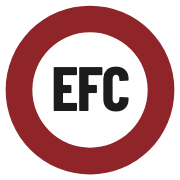
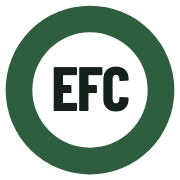
Essential Fence Center: evergreen palette in place of the red
Claude-Session: https://claude.ai/code/session_0129ekqVKv9bGKAaKhdq88AA

diff --git a/sites/essential-fence-center/index.html b/sites/essential-fence-center/index.html
@@ -12,7 +12,7 @@ if(!/\/$|\.[a-z0-9]+$/i.test(location.pathname))location.replace(location.pathna
 <link href="https://fonts.googleapis.com/css2?family=Barlow:wght@400;500;600&family=Barlow+Condensed:wght@600;700&display=swap" rel="stylesheet">
 <link rel="icon" href="assets/identity/icon.svg" type="image/svg+xml">
 <link rel="apple-touch-icon" href="assets/identity/icon-180.png">
-<meta name="theme-color" content="#1C1C1E">
+<meta name="theme-color" content="#16211B">
 <meta property="og:type" content="website">
 <meta property="og:site_name" content="Essential Fence Center">
 <meta property="og:title" content="Essential Fence Center · Fencing done right.">
@@ -25,13 +25,13 @@ if(!/\/$|\.[a-z0-9]+$/i.test(location.pathname))location.replace(location.pathna
 <style>
 /* THE FENCE LINE ONE, for Essential Fence Center. hero:backdrop nav:bar
    services:grid-numbered proof:about + the client's own photographs
-   ink #1C1C1E · surface #F5F1E9 · accent #8F2429 (the EFC roundel red) · muted #5C6360
+   ink #16211B · surface #F5F1E9 · accent #2E5E3E (Pacific Northwest evergreen) · muted #5C6360
    Barlow Condensed display / Barlow body
    Device: the board band, a run of vertical cedar boards with two rails, closing the
    hero and signing the footer. The phone is the hero's largest object; the estimate
    form is the second CTA everywhere. Built from the Grand Street Works trade set. */
-:root{--ink:#1C1C1E;--surface:#F5F1E9;--accent:#8F2429;--accent-2:#7A1D22;--muted:#5C6360;--dark:#1C1C1E;
---ondark:#EFEAE0;--dim:#B9BDB6;--flare:#E7787C;--rule:rgba(28,28,30,.16);--hair:rgba(28,28,30,.09);
+:root{--ink:#16211B;--surface:#F5F1E9;--accent:#2E5E3E;--accent-2:#244B31;--muted:#5C6360;--dark:#16211B;
+--ondark:#EFEAE0;--dim:#B9BDB6;--flare:#9CC59A;--rule:rgba(22,33,27,.16);--hair:rgba(22,33,27,.09);
 --board:#3B3F3A;--gap:#22282A;--alt:#ECE7DD;--wrap:1140px}
 *{box-sizing:border-box}
 html{-webkit-text-size-adjust:100%;scroll-behavior:smooth}
@@ -78,8 +78,8 @@ font-weight:700;letter-spacing:.05em;font-family:"Barlow Condensed",Impact,sans-
 .backdrop picture{display:block;width:100%;height:100%}
 .backdrop img{width:100%;height:100%;object-fit:cover;object-position:center 70%}
 .backdrop::after{content:"";position:absolute;inset:0;
-background:linear-gradient(100deg,rgb(28 28 30/.92) 0%,rgb(28 28 30/.84) 40%,rgb(28 28 30/.5) 72%,rgb(28 28 30/.3) 100%)}
-@media(max-width:60rem){.backdrop::after{background:rgb(28 28 30/.84)}}
+background:linear-gradient(100deg,rgb(22 33 27/.92) 0%,rgb(22 33 27/.84) 40%,rgb(22 33 27/.5) 72%,rgb(22 33 27/.3) 100%)}
+@media(max-width:60rem){.backdrop::after{background:rgb(22 33 27/.84)}}
 @media(forced-colors:active),print{.backdrop{display:none}}
 .eyebrow{font-size:13px;letter-spacing:.2em;text-transform:uppercase;font-weight:600;
 color:var(--flare);margin:0 0 12px}
@@ -186,7 +186,7 @@ background:#fff;color:var(--ink);border-radius:0;width:100%}
 /* Close and footer. */
 .close{position:relative;isolation:isolate;overflow:hidden;background:var(--dark);color:#fff;padding:52px 0 56px}
 .close>*:not(.backdrop){position:relative;z-index:1}
-.close .backdrop::after{background:linear-gradient(100deg,rgb(28 28 30/.92) 0%,rgb(28 28 30/.8) 45%,rgb(28 28 30/.45) 100%)}
+.close .backdrop::after{background:linear-gradient(100deg,rgb(22 33 27/.92) 0%,rgb(22 33 27/.8) 45%,rgb(22 33 27/.45) 100%)}
 .close h2{max-width:14ch;color:#fff}
 .close p{max-width:52ch;font-size:17px;margin:12px 0 22px;color:var(--dim)}
 .close .btn-primary{background:#fff;color:var(--accent)}
@@ -231,9 +231,9 @@ letter-spacing:.08em;text-transform:uppercase;max-width:132px}
 <body>
 <div class="topbar"><div class="wrap"><span>Licensed, bonded &amp; insured · L&amp;I #ESSENFC796CE</span><span><a href="https://www.google.com/maps/place/Essential+Fence+Center/@47.9334861,-122.1108886,16z/data=!4m13!1m7!3m6!1s0x549aa99034d4b59f:0x411e487eb55b76b2!2s6713+87th+Ave+SE,+Snohomish,+WA+98290,+USA!3b1!8m2!3d47.9339282!4d-122.1138068!3m4!1s0x549aa969678dc423:0x2785cc8c5b29b058!8m2!3d47.9339282!4d-122.1138068" rel="noopener">Review us on Google</a> · <a href="https://www.facebook.com/essentialfencecenter/" rel="noopener">Facebook</a></span></div></div>
 <header class="nav"><div class="wrap">
-  <a class="brand" href="#top"><span class="lockup"><svg xmlns="http://www.w3.org/2000/svg" viewBox="0 0 64 64" aria-hidden="true" focusable="false"><circle cx="32" cy="32" r="30" fill="#8F2429"/>
+  <a class="brand" href="#top"><span class="lockup"><svg xmlns="http://www.w3.org/2000/svg" viewBox="0 0 64 64" aria-hidden="true" focusable="false"><circle cx="32" cy="32" r="30" fill="#2E5E3E"/>
 <circle cx="32" cy="32" r="20.5" fill="#FFFFFF"/>
-<text x="32" y="39.5" text-anchor="middle" font-family="Barlow Condensed,Arial Narrow,Arial,Helvetica,sans-serif" font-weight="700" font-size="22" letter-spacing="-.5" fill="#1C1C1E">EFC</text></svg><span>Essential Fence Center</span></span></a>
+<text x="32" y="39.5" text-anchor="middle" font-family="Barlow Condensed,Arial Narrow,Arial,Helvetica,sans-serif" font-weight="700" font-size="22" letter-spacing="-.5" fill="#16211B">EFC</text></svg><span>Essential Fence Center</span></span></a>
   <nav class="navlinks"><a href="#services">Fences</a><a href="#about">About</a><a href="#work">Our work</a><a href="#process">Process</a><a href="#faq">Questions</a><a href="#quote">Estimate</a></nav>
   <a class="navact" href="tel:+14253876308">(425) 387-6308</a>
 </div></header>
@@ -416,9 +416,9 @@ letter-spacing:.08em;text-transform:uppercase;max-width:132px}
 <footer class="foot">
   <div class="boards" aria-hidden="true" style="margin:0"></div>
   <div class="wrap">
-  <a class="brand" href="#top"><span class="lockup"><svg xmlns="http://www.w3.org/2000/svg" viewBox="0 0 64 64" aria-hidden="true" focusable="false"><circle cx="32" cy="32" r="30" fill="#8F2429"/>
+  <a class="brand" href="#top"><span class="lockup"><svg xmlns="http://www.w3.org/2000/svg" viewBox="0 0 64 64" aria-hidden="true" focusable="false"><circle cx="32" cy="32" r="30" fill="#2E5E3E"/>
 <circle cx="32" cy="32" r="20.5" fill="#FFFFFF"/>
-<text x="32" y="39.5" text-anchor="middle" font-family="Barlow Condensed,Arial Narrow,Arial,Helvetica,sans-serif" font-weight="700" font-size="22" letter-spacing="-.5" fill="#1C1C1E">EFC</text></svg><span>Essential Fence Center</span></span></a>
+<text x="32" y="39.5" text-anchor="middle" font-family="Barlow Condensed,Arial Narrow,Arial,Helvetica,sans-serif" font-weight="700" font-size="22" letter-spacing="-.5" fill="#16211B">EFC</text></svg><span>Essential Fence Center</span></span></a>
   <p><a href="tel:+14253876308">(425) 387-6308</a> · <a href="mailto:rlcole2257@gmail.com">rlcole2257@gmail.com</a></p>
   <p>Essential Fence Center, LLC · 6713 87th Avenue SE, Snohomish, WA 98290 · Monday to Friday, 9am to 5pm</p>
   <p>WA L&amp;I registered contractor #ESSENFC796CE · Licensed, bonded and insured · <a href="https://www.facebook.com/essentialfencecenter/" rel="noopener">Facebook</a> · <a href="https://www.google.com/maps/place/Essential+Fence+Center/@47.9334861,-122.1108886,16z/data=!4m13!1m7!3m6!1s0x549aa99034d4b59f:0x411e487eb55b76b2!2s6713+87th+Ave+SE,+Snohomish,+WA+98290,+USA!3b1!8m2!3d47.9339282!4d-122.1138068!3m4!1s0x549aa969678dc423:0x2785cc8c5b29b058!8m2!3d47.9339282!4d-122.1138068" rel="noopener">Google</a></p>

diff --git a/tools/build-fencing-site.py b/tools/build-fencing-site.py
@@ -164,10 +164,11 @@ def picture(name: str, alt: str, sizes: str, eager: bool = False) -> str:
 
 
 # --- identity -------------------------------------------------------------
-# The client's own mark is a red roundel with "EFC" in it (logo.png on their
-# site, 200px). Redrawn as SVG so it survives a favicon and a social card.
-PALETTE = {"ink": "#1C1C1E", "surface": "#F5F1E9", "accent": "#8F2429",
-           "flare": "#E7787C", "dark": "#1C1C1E", "white": "#FFFFFF"}
+# The client's own mark is a roundel with "EFC" in it (logo.png on their site,
+# 200px, red). Redrawn as SVG in the site's evergreen so it survives a favicon
+# and a social card and matches the palette.
+PALETTE = {"ink": "#16211B", "surface": "#F5F1E9", "accent": "#2E5E3E",
+           "flare": "#9CC59A", "dark": "#16211B", "white": "#FFFFFF"}
 
 MARK_INNER = """\
 <circle cx="32" cy="32" r="30" fill="{ring}"/>
@@ -422,13 +423,13 @@ $jsonld
 <style>
 /* THE FENCE LINE ONE, for Essential Fence Center. hero:backdrop nav:bar
    services:grid-numbered proof:about + the client's own photographs
-   ink #1C1C1E · surface #F5F1E9 · accent #8F2429 (the EFC roundel red) · muted #5C6360
+   ink #16211B · surface #F5F1E9 · accent #2E5E3E (Pacific Northwest evergreen) · muted #5C6360
    Barlow Condensed display / Barlow body
    Device: the board band, a run of vertical cedar boards with two rails, closing the
    hero and signing the footer. The phone is the hero's largest object; the estimate
    form is the second CTA everywhere. Built from the Grand Street Works trade set. */
-:root{--ink:#1C1C1E;--surface:#F5F1E9;--accent:#8F2429;--accent-2:#7A1D22;--muted:#5C6360;--dark:#1C1C1E;
---ondark:#EFEAE0;--dim:#B9BDB6;--flare:#E7787C;--rule:rgba(28,28,30,.16);--hair:rgba(28,28,30,.09);
+:root{--ink:#16211B;--surface:#F5F1E9;--accent:#2E5E3E;--accent-2:#244B31;--muted:#5C6360;--dark:#16211B;
+--ondark:#EFEAE0;--dim:#B9BDB6;--flare:#9CC59A;--rule:rgba(22,33,27,.16);--hair:rgba(22,33,27,.09);
 --board:#3B3F3A;--gap:#22282A;--alt:#ECE7DD;--wrap:1140px}
 *{box-sizing:border-box}
 html{-webkit-text-size-adjust:100%;scroll-behavior:smooth}
@@ -475,8 +476,8 @@ font-weight:700;letter-spacing:.05em;font-family:"Barlow Condensed",Impact,sans-
 .backdrop picture{display:block;width:100%;height:100%}
 .backdrop img{width:100%;height:100%;object-fit:cover;object-position:center 70%}
 .backdrop::after{content:"";position:absolute;inset:0;
-background:linear-gradient(100deg,rgb(28 28 30/.92) 0%,rgb(28 28 30/.84) 40%,rgb(28 28 30/.5) 72%,rgb(28 28 30/.3) 100%)}
-@media(max-width:60rem){.backdrop::after{background:rgb(28 28 30/.84)}}
+background:linear-gradient(100deg,rgb(22 33 27/.92) 0%,rgb(22 33 27/.84) 40%,rgb(22 33 27/.5) 72%,rgb(22 33 27/.3) 100%)}
+@media(max-width:60rem){.backdrop::after{background:rgb(22 33 27/.84)}}
 @media(forced-colors:active),print{.backdrop{display:none}}
 .eyebrow{font-size:13px;letter-spacing:.2em;text-transform:uppercase;font-weight:600;
 color:var(--flare);margin:0 0 12px}
@@ -583,7 +584,7 @@ background:#fff;color:var(--ink);border-radius:0;width:100%}
 /* Close and footer. */
 .close{position:relative;isolation:isolate;overflow:hidden;background:var(--dark);color:#fff;padding:52px 0 56px}
 .close>*:not(.backdrop){position:relative;z-index:1}
-.close .backdrop::after{background:linear-gradient(100deg,rgb(28 28 30/.92) 0%,rgb(28 28 30/.8) 45%,rgb(28 28 30/.45) 100%)}
+.close .backdrop::after{background:linear-gradient(100deg,rgb(22 33 27/.92) 0%,rgb(22 33 27/.8) 45%,rgb(22 33 27/.45) 100%)}
 .close h2{max-width:14ch;color:#fff}
 .close p{max-width:52ch;font-size:17px;margin:12px 0 22px;color:var(--dim)}
 .close .btn-primary{background:#fff;color:var(--accent)}

diff --git a/sites/essential-fence-center/README.md b/sites/essential-fence-center/README.md
@@ -34,8 +34,10 @@ Everything factual is theirs, lifted from essentialfencecenter.com on
   contractor-index listing (active, issued 2021-02-19, expires 2027-02-19).
   Confirm it once against lni.wa.gov before launch; it is on the page and
   Washington requires it in advertising.
-- The mark: their red "EFC" roundel (`logo.png` on their site, 200px),
-  redrawn as SVG. The accent colour is sampled from it.
+- The mark: their "EFC" roundel (`logo.png` on their site, 200px, red),
+  redrawn as SVG. The palette is a Pacific Northwest evergreen rather than
+  their red, by request; the roundel follows the palette. `PALETTE` in the
+  build script is the one place to change it back.
 
 ## Photographs
 
